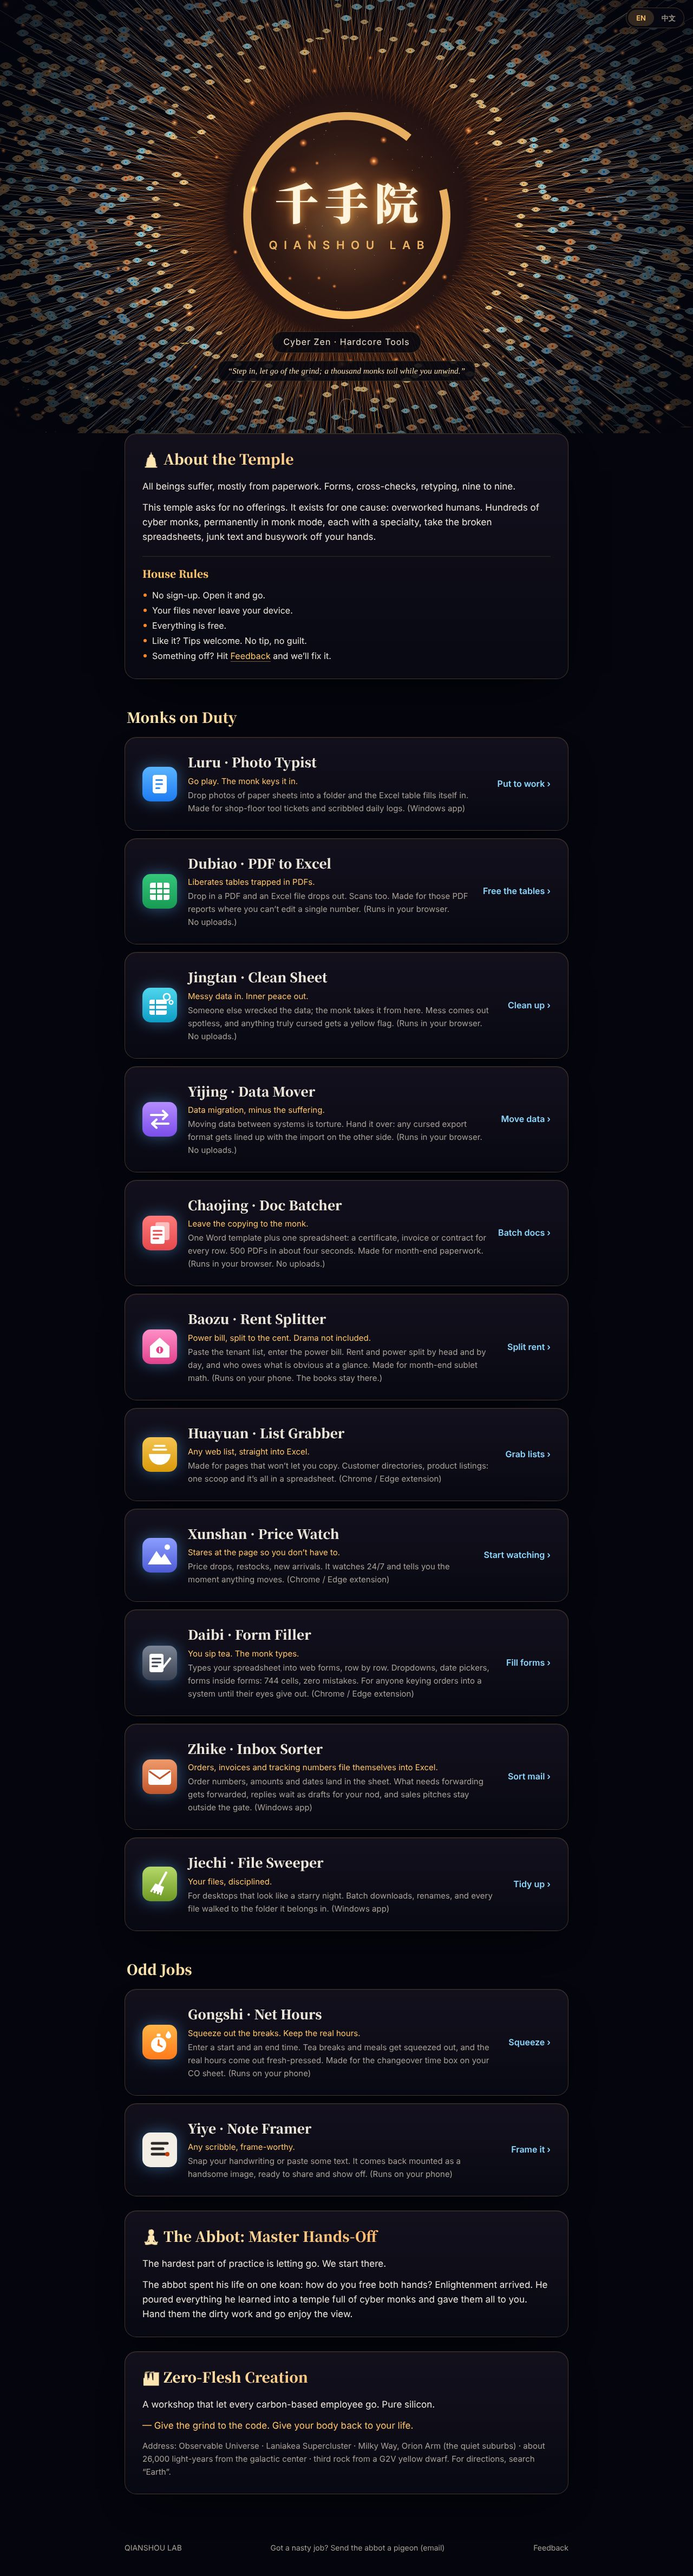
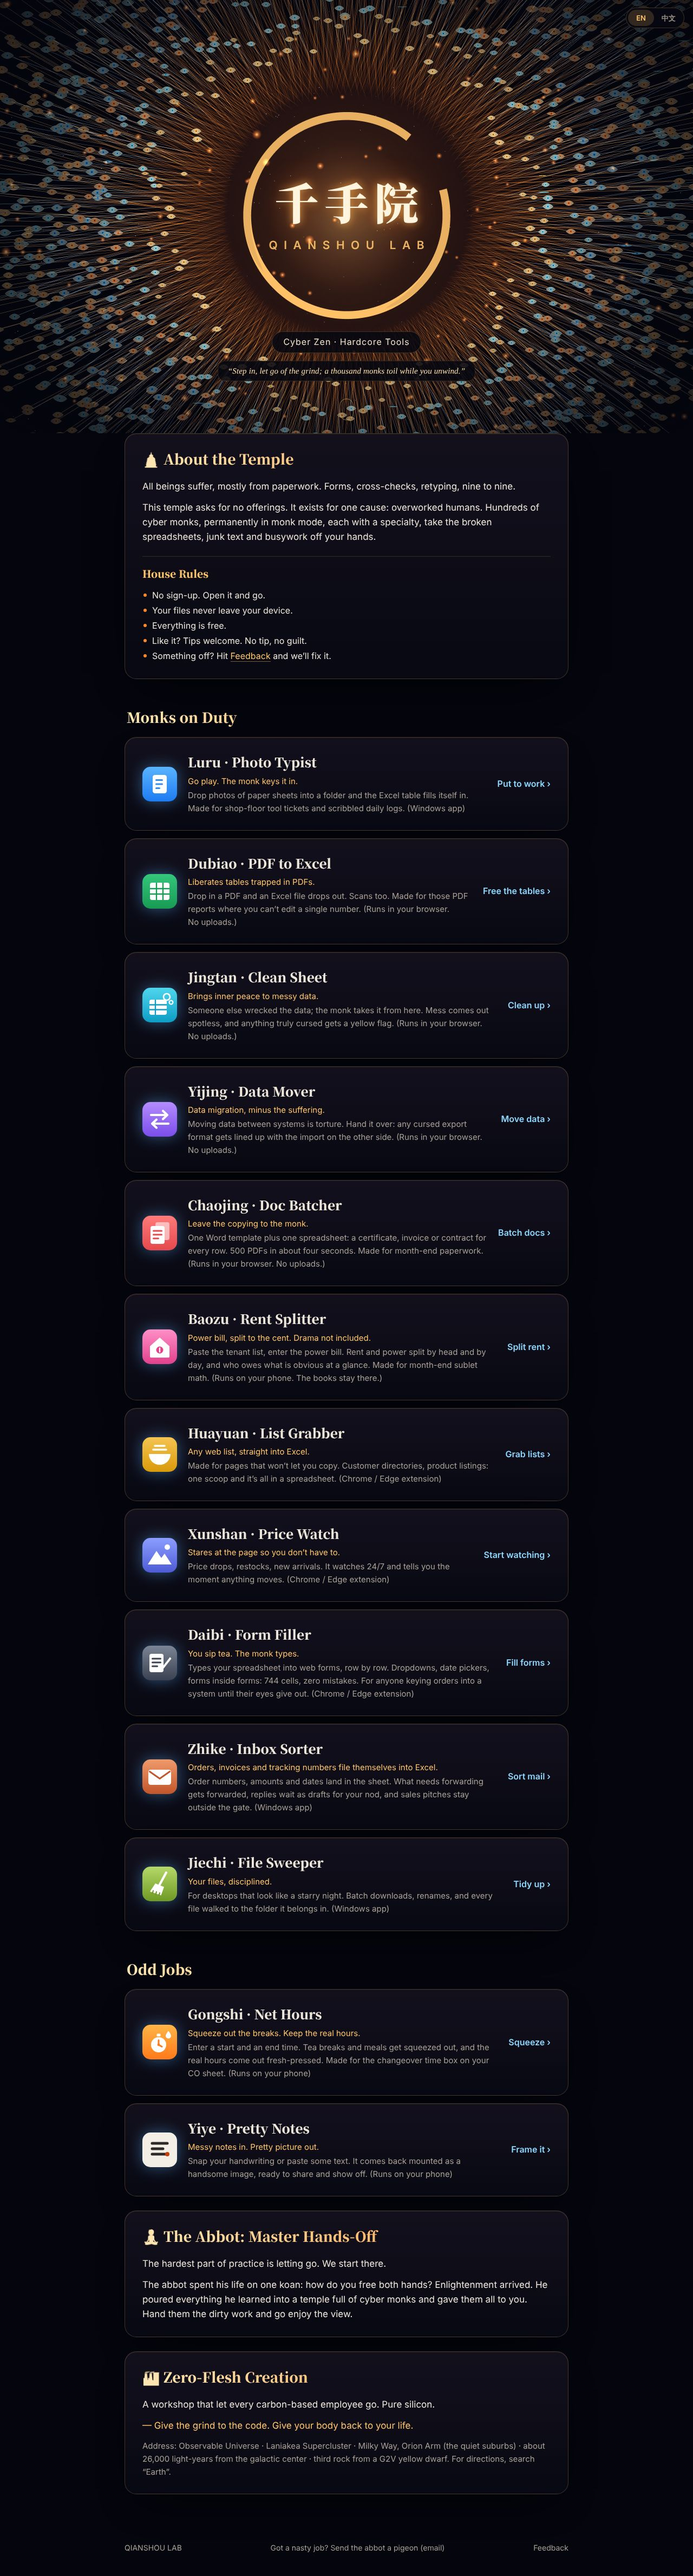
总舵首页：一叶笺卡片英文名对齐已上线的 Yiye · Pretty Notes（副标题 Messy notes in. Pretty picture out.）；净坛僧英文副标题改 Brings inner peace to messy data.，免得两张卡片同一个句式；重跑测试和截图
Claude-Session: https://claude.ai/code/session_01KCV9xrugD8gYybbP9zkdxi

Changed region(s): [[0.0, 0.0, 1.0, 0.1867], [0.3438, 0.8089, 0.4375, 0.84]]

diff --git a/index.html b/index.html
@@ -53,7 +53,7 @@ window.QS_STRINGS = {
       pabiao: { name: 'Dubiao · PDF to Excel', sub: 'Liberates tables trapped in PDFs.',
         what: 'Drop in a PDF and an Excel file drops out. Scans too. Made for those PDF reports where you can’t edit a single number.',
         note: '(Runs in your\u00a0browser. No\u00a0uploads.)', go: 'Free the tables ›' },
-      xibiao: { name: 'Jingtan · Clean Sheet', sub: 'Messy data in. Inner peace out.',
+      xibiao: { name: 'Jingtan · Clean Sheet', sub: 'Brings inner peace to messy data.',
         what: 'Someone else wrecked the data; the monk takes it from here. Mess comes out spotless, and anything truly cursed gets a yellow flag.',
         note: '(Runs in your\u00a0browser. No\u00a0uploads.)', go: 'Clean up ›' },
       yijing: { name: 'Yijing · Data Mover', sub: 'Data migration, minus the suffering.',
@@ -83,7 +83,7 @@ window.QS_STRINGS = {
       gongshi: { name: 'Gongshi · Net Hours', sub: 'Squeeze out the breaks. Keep the real hours.',
         what: 'Enter a start and an end time. Tea breaks and meals get squeezed out, and the real hours come out fresh-pressed. Made for the changeover time box on your CO sheet.',
         note: '(Runs on your\u00a0phone)', go: 'Squeeze ›' },
-      qianye: { name: 'Yiye · Note Framer', sub: 'Any scribble, frame-worthy.',
+      qianye: { name: 'Yiye · Pretty Notes', sub: 'Messy notes in. Pretty picture out.',
         what: 'Snap your handwriting or paste some text. It comes back mounted as a handsome image, ready to share and show off.',
         note: '(Runs on your\u00a0phone)', go: 'Frame it ›' }
     },

diff --git a/README.md b/README.md
@@ -19,7 +19,7 @@ Monks on duty:
 
 - [Luru · Photo Typist](https://qianshoulab.github.io/luruseng/): Go play. The monk keys it in. (Photos of paper sheets into Excel, Windows app)
 - [Dubiao · PDF to Excel](https://qianshoulab.github.io/pabiao/): Liberates tables trapped in PDFs. (Scans too, runs in your browser, no uploads)
-- [Jingtan · Clean Sheet](https://qianshoulab.github.io/xibiao/): Messy data in. Inner peace out. (Spreadsheet cleanup, no uploads)
+- [Jingtan · Clean Sheet](https://qianshoulab.github.io/xibiao/): Brings inner peace to messy data. (Spreadsheet cleanup, no uploads)
 - [Yijing · Data Mover](https://qianshoulab.github.io/yijing/): Data migration, minus the suffering. (System A export to system B import, web)
 - [Chaojing · Doc Batcher](https://qianshoulab.github.io/chaojing/): Leave the copying to the monk. (Word template + spreadsheet: certificates, invoices, contracts in bulk, web)
 - [Baozu · Rent Splitter](https://qianshoulab.github.io/baozuseng/): Power bill, split to the cent. Drama not included. (Sublet bookkeeping, phone web app, data stays on the phone)
@@ -32,7 +32,7 @@ Monks on duty:
 Odd jobs:
 
 - [Gongshi · Net Hours](https://qianshoulab.github.io/gongshi/): Squeeze out the breaks. Keep the real hours. (Changeover time minus breaks and meals)
-- [Yiye · Note Framer](https://qianshoulab.github.io/qianye/): Any scribble, frame-worthy. (Handwriting photo or pasted text into a shareable image)
+- [Yiye · Pretty Notes](https://qianshoulab.github.io/qianye/): Messy notes in. Pretty picture out. (Handwriting photo or pasted text into a shareable image)
 
 ---
 
